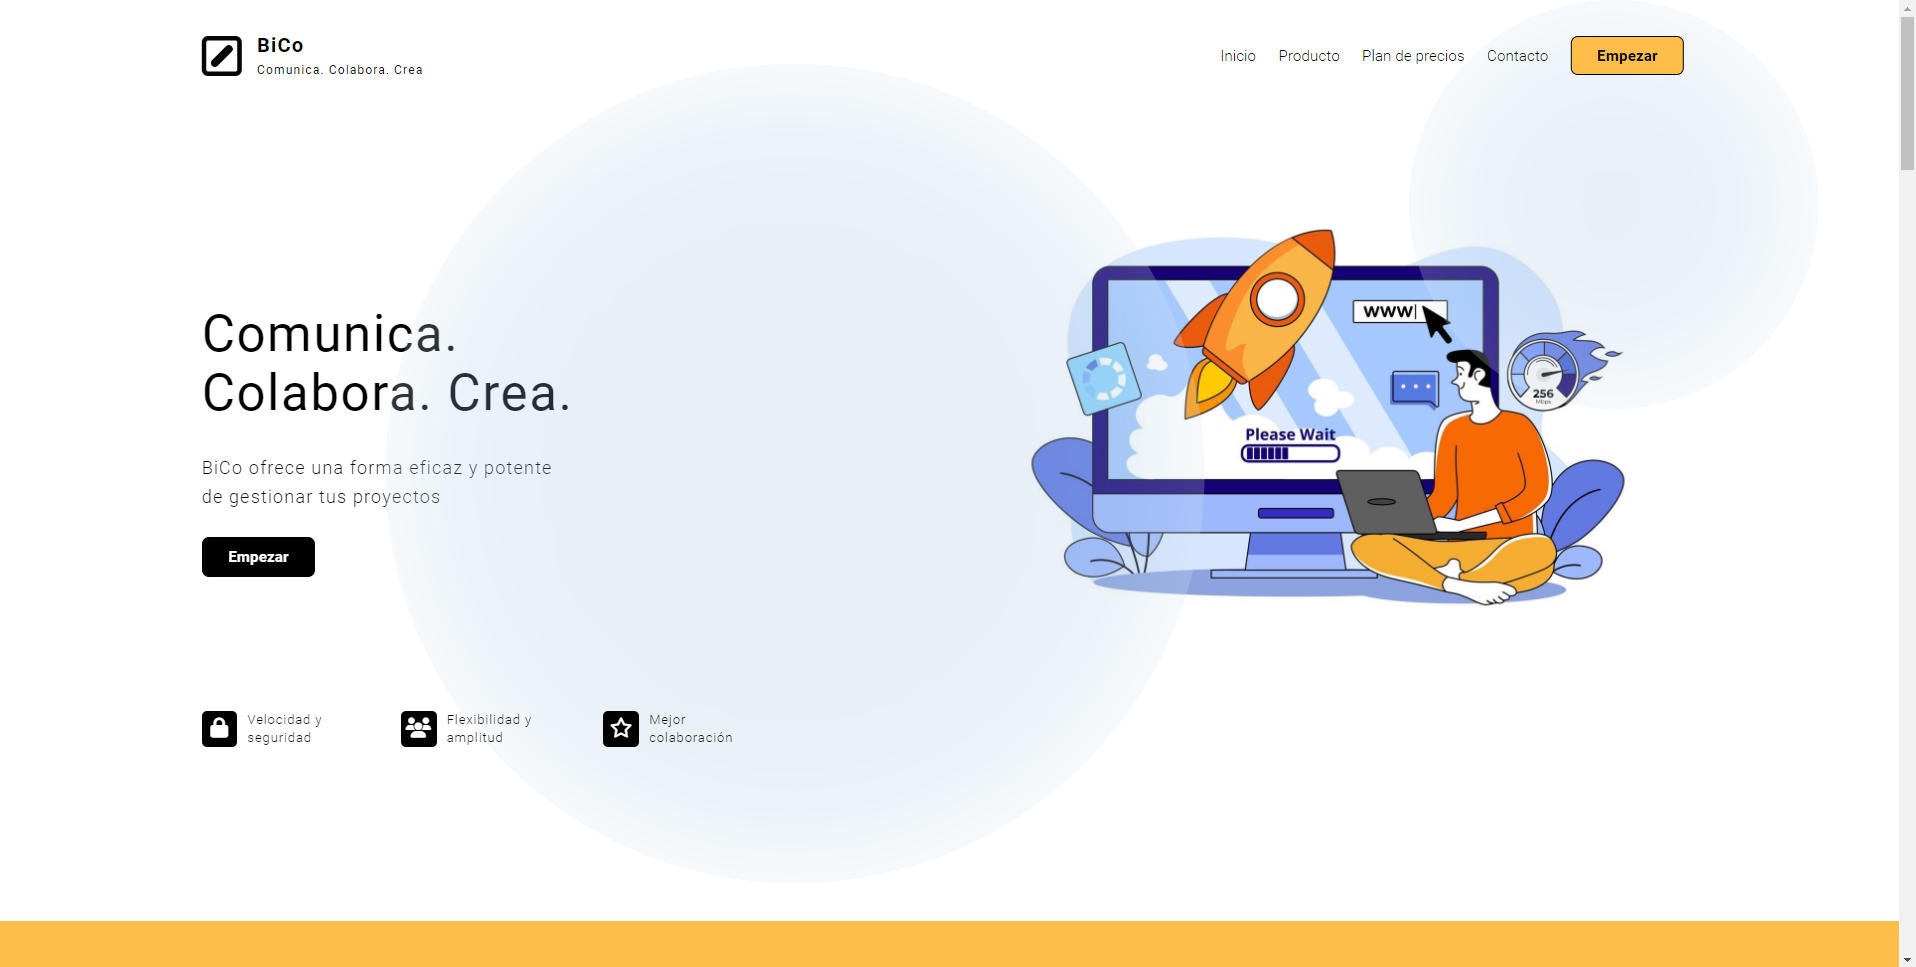
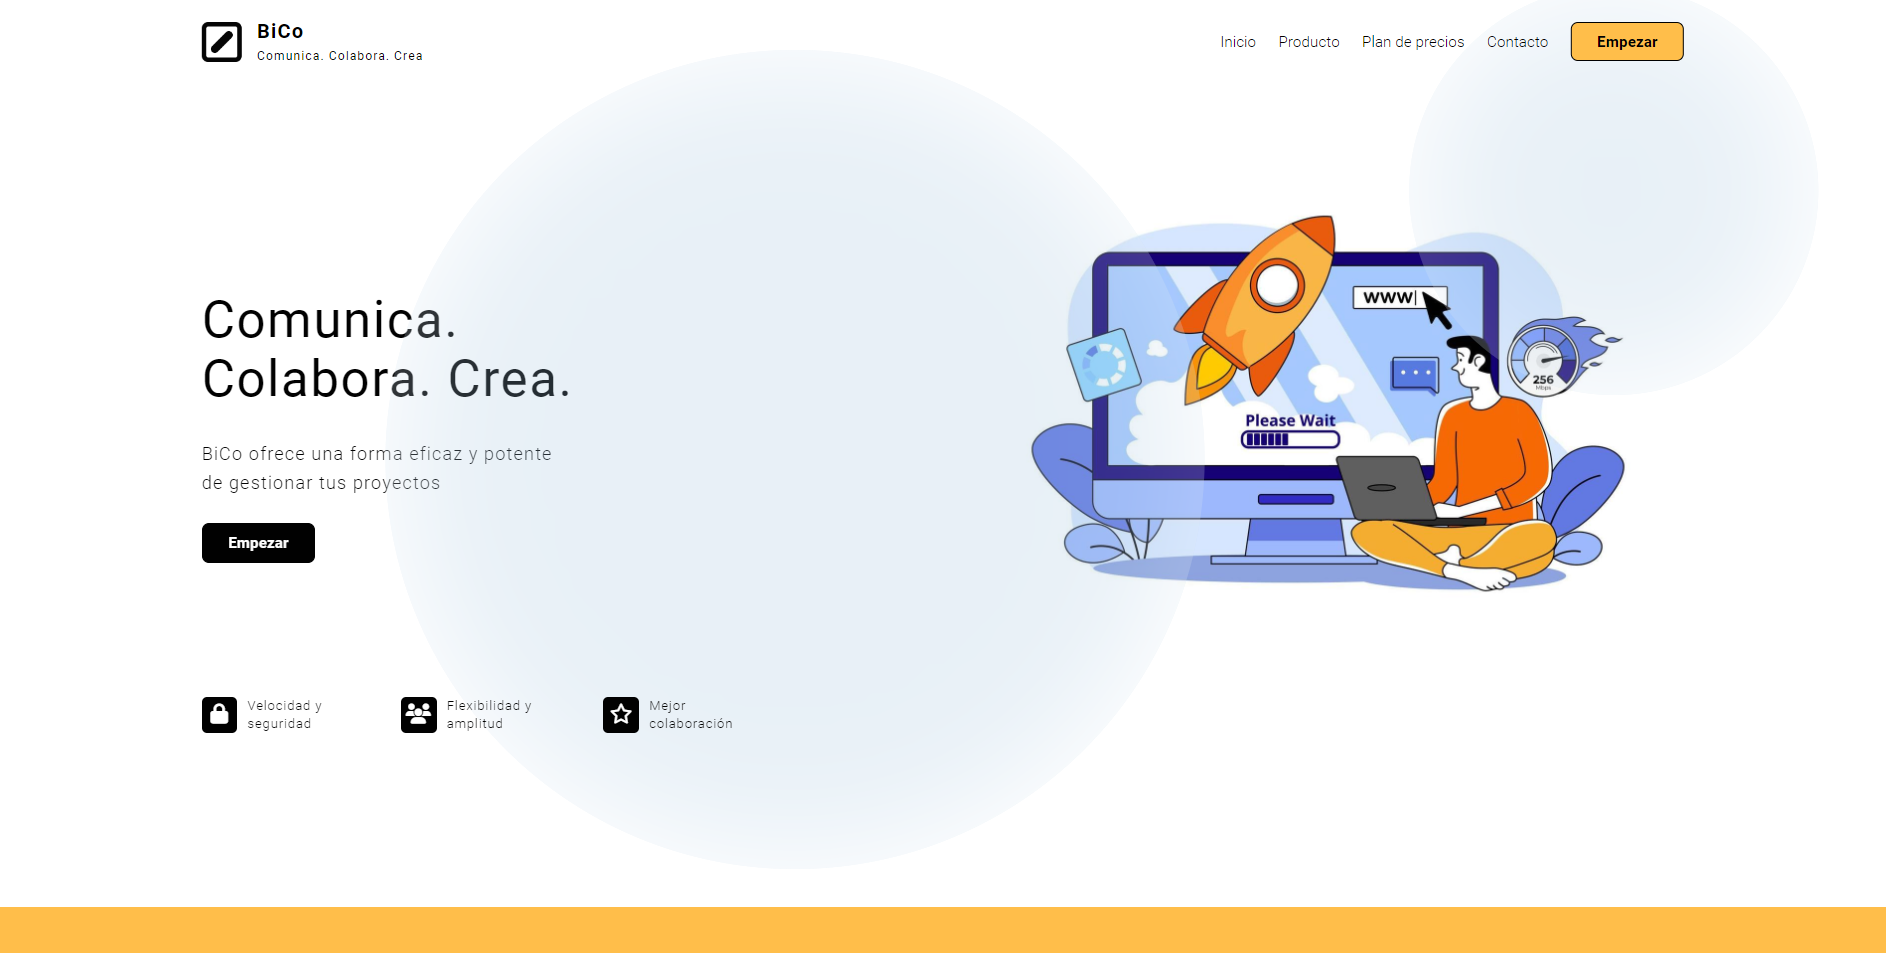
Finalizacion de seccion inicio

diff --git a/src/app/components/about-me/about-me.component.html b/src/app/components/about-me/about-me.component.html
@@ -1,8 +1,8 @@
 <section>
   <div class="banner">
     <div class="img-banner" alt=""></div>
-    <div class="container-fluid text-center">
-      <div class="row align-items-center absolute">
+    <div class="container  absolute">
+      <div class="row align-items-center text-center">
         <div class="col">
           <h1 class="h1">{{data.nombre}}</h1>
           <h2 class="h2">{{data.posicion}}</h2>
@@ -12,7 +12,7 @@
     </div>
   </div>
 </section>
-<section>
+<section class="seccion">
   <div class="container text-center">
     <div class="row seccion align-items-center">
       <div class="col">
@@ -55,6 +55,7 @@
   </div>
   <div class="container">
     <div class="row align-items-center seccion text-center" *ngIf="projectVisibility">
+
       <div class="col aparecer text-center align-items-center">
         <div id="carouselExampleAutoplaying" class="carousel slide" data-bs-ride="carousel">
           <div class="carousel-inner">
@@ -82,6 +83,4 @@
       </div>
     </div>
   </div>
-
-
 </section>

diff --git a/src/index.html b/src/index.html
@@ -15,14 +15,15 @@
   <link
     href="https://fonts.googleapis.com/css2?family=Source+Serif+Pro:ital,wght@0,300;0,400;0,600;0,700;1,600&display=swap"
     rel="stylesheet">
-
+   
 </head>
 
 <body class="bg-dark aparecer">
   <app-root></app-root>
-  <script src="https://cdn.jsdelivr.net/npm/bootstrap@5.3.0-alpha1/dist/js/bootstrap.bundle.min.js"
-    integrity="sha384-w76AqPfDkMBDXo30jS1Sgez6pr3x5MlQ1ZAGC+nuZB+EYdgRZgiwxhTBTkF7CXvN"
-    crossorigin="anonymous"></script>
 </body>
+<script src="https://cdn.jsdelivr.net/npm/bootstrap@5.3.0-alpha1/dist/js/bootstrap.bundle.min.js"
+integrity="sha384-w76AqPfDkMBDXo30jS1Sgez6pr3x5MlQ1ZAGC+nuZB+EYdgRZgiwxhTBTkF7CXvN"
+crossorigin="anonymous"></script>
+<script src="https://kit.fontawesome.com/eb09d1be43.js" crossorigin="anonymous"></script>
 
 </html>

diff --git a/src/styles.css b/src/styles.css
@@ -11,6 +11,20 @@ body{
     background-color: var(--bs-dark-bg-subtle);
 }
 
+body::-webkit-scrollbar {
+    width: 13px;               /* width of the entire scrollbar */
+  }
+  
+  body::-webkit-scrollbar-track {
+    background: #000;        /* color of the tracking area */
+  }
+  
+  body::-webkit-scrollbar-thumb {
+    background-color: #dc3545;    /* color of the scroll thumb */
+    border-radius: 20px;       /* roundness of the scroll thumb */
+    border: 3px solid #000;  /* creates padding around scroll thumb */
+  }
+
 .seccion{
     padding-top: 30px;
     padding-bottom: 30px;
@@ -28,6 +42,8 @@ body{
     display: flex;
     justify-content: center!important;
 }
+
+
 
 @keyframes aparecer{
     0%{

diff --git a/src/app/components/footer/footer.component.html b/src/app/components/footer/footer.component.html
@@ -1,0 +1,24 @@
+<nav class="navbar seccion bg-secondary" data-bs-theme="dark">
+    <div class="container-fluid ">
+        <li>
+            <a href="">
+                <i class="fa-brands fa-whatsapp wpp"></i>
+            </a>
+        </li>
+        <li>
+            <a href="">
+                <i class="fa-solid fa-envelope outlook"></i>
+            </a>
+        </li>
+        <li>
+            <a href="">
+                <i class="fa-brands fa-linkedin linkedin"></i>
+            </a>
+        </li>
+        <li>
+            <a href="">
+                <i class="fa-brands fa-github github"></i>
+            </a>
+        </li>
+    </div>
+</nav>

diff --git a/src/app/components/footer/footer.component.css b/src/app/components/footer/footer.component.css
@@ -1,0 +1,48 @@
+footer{
+    background-color: #000;
+    position: fixed;
+}
+
+i{
+    font-size: 35px;
+    transition: all .4s ease;
+}
+
+i:hover{
+    transform: scale(1.2);
+}
+
+
+.container-fluid{
+    display: flex;
+    justify-content: center;
+    align-items: center;
+    align-self: center;
+}
+
+.container-fluid li{
+    list-style: none;
+    margin-right: 30px;
+}
+
+.container-fluid li:last-child{
+    margin-right: 0;
+}
+
+.wpp{
+   color: #25D366;
+}
+
+.outlook{
+    color: #50D9FF;
+}
+
+.linkedin{
+    color: #34aae1;
+}
+
+.github{
+    color: #171515;
+}
+
+

diff --git a/src/app/app.module.ts b/src/app/app.module.ts
@@ -7,6 +7,7 @@ import { HeaderComponent } from './components/header/header.component';
 import { AboutMeComponent } from './components/about-me/about-me.component';
 import {HttpClientModule } from '@angular/common/http';
 import { ServiceService } from './services/porfolio.service';
+import { FooterComponent } from './components/footer/footer.component';
 
 
 @NgModule({
@@ -14,6 +15,7 @@ import { ServiceService } from './services/porfolio.service';
     AppComponent,
     HeaderComponent,
     AboutMeComponent,
+    FooterComponent,
     
   ],
   imports: [

diff --git a/src/app/components/about-me/about-me.component.ts b/src/app/components/about-me/about-me.component.ts
@@ -37,9 +37,9 @@ export class AboutMeComponent {
   }
 
   showProjects(){
+    this.projectVisibility = true;
     this.formacionVisibility = false;
     this.aboutVisibility = false;
-    this.projectVisibility = true;
   }
 
 }

diff --git a/src/app/components/footer/footer.component.ts b/src/app/components/footer/footer.component.ts
@@ -1,0 +1,10 @@
+import { Component } from '@angular/core';
+
+@Component({
+  selector: 'app-footer',
+  templateUrl: './footer.component.html',
+  styleUrls: ['./footer.component.css']
+})
+export class FooterComponent {
+
+}

diff --git a/src/app/components/about-me/about-me.component.css b/src/app/components/about-me/about-me.component.css
@@ -39,7 +39,17 @@
 
 .card-img-top{
     height: 400px;
-  
+}
+
+@media (max-width: 950px) {
+    .container{
+        width: 100%;
+    }
+
+    .card-img-top{
+        height: auto;
+    }
+
 }
 
 

diff --git a/src/app/components/header/header.component.css b/src/app/components/header/header.component.css
@@ -1,0 +1,7 @@
+header{
+    position: fixed;
+    top: 0;
+    left: 0;
+    z-index: 20;
+    width: 100%;
+}

diff --git a/src/app/app.component.html b/src/app/app.component.html
@@ -1,2 +1,3 @@
 <app-header></app-header>
 <app-about-me></app-about-me>
+<app-footer></app-footer>
